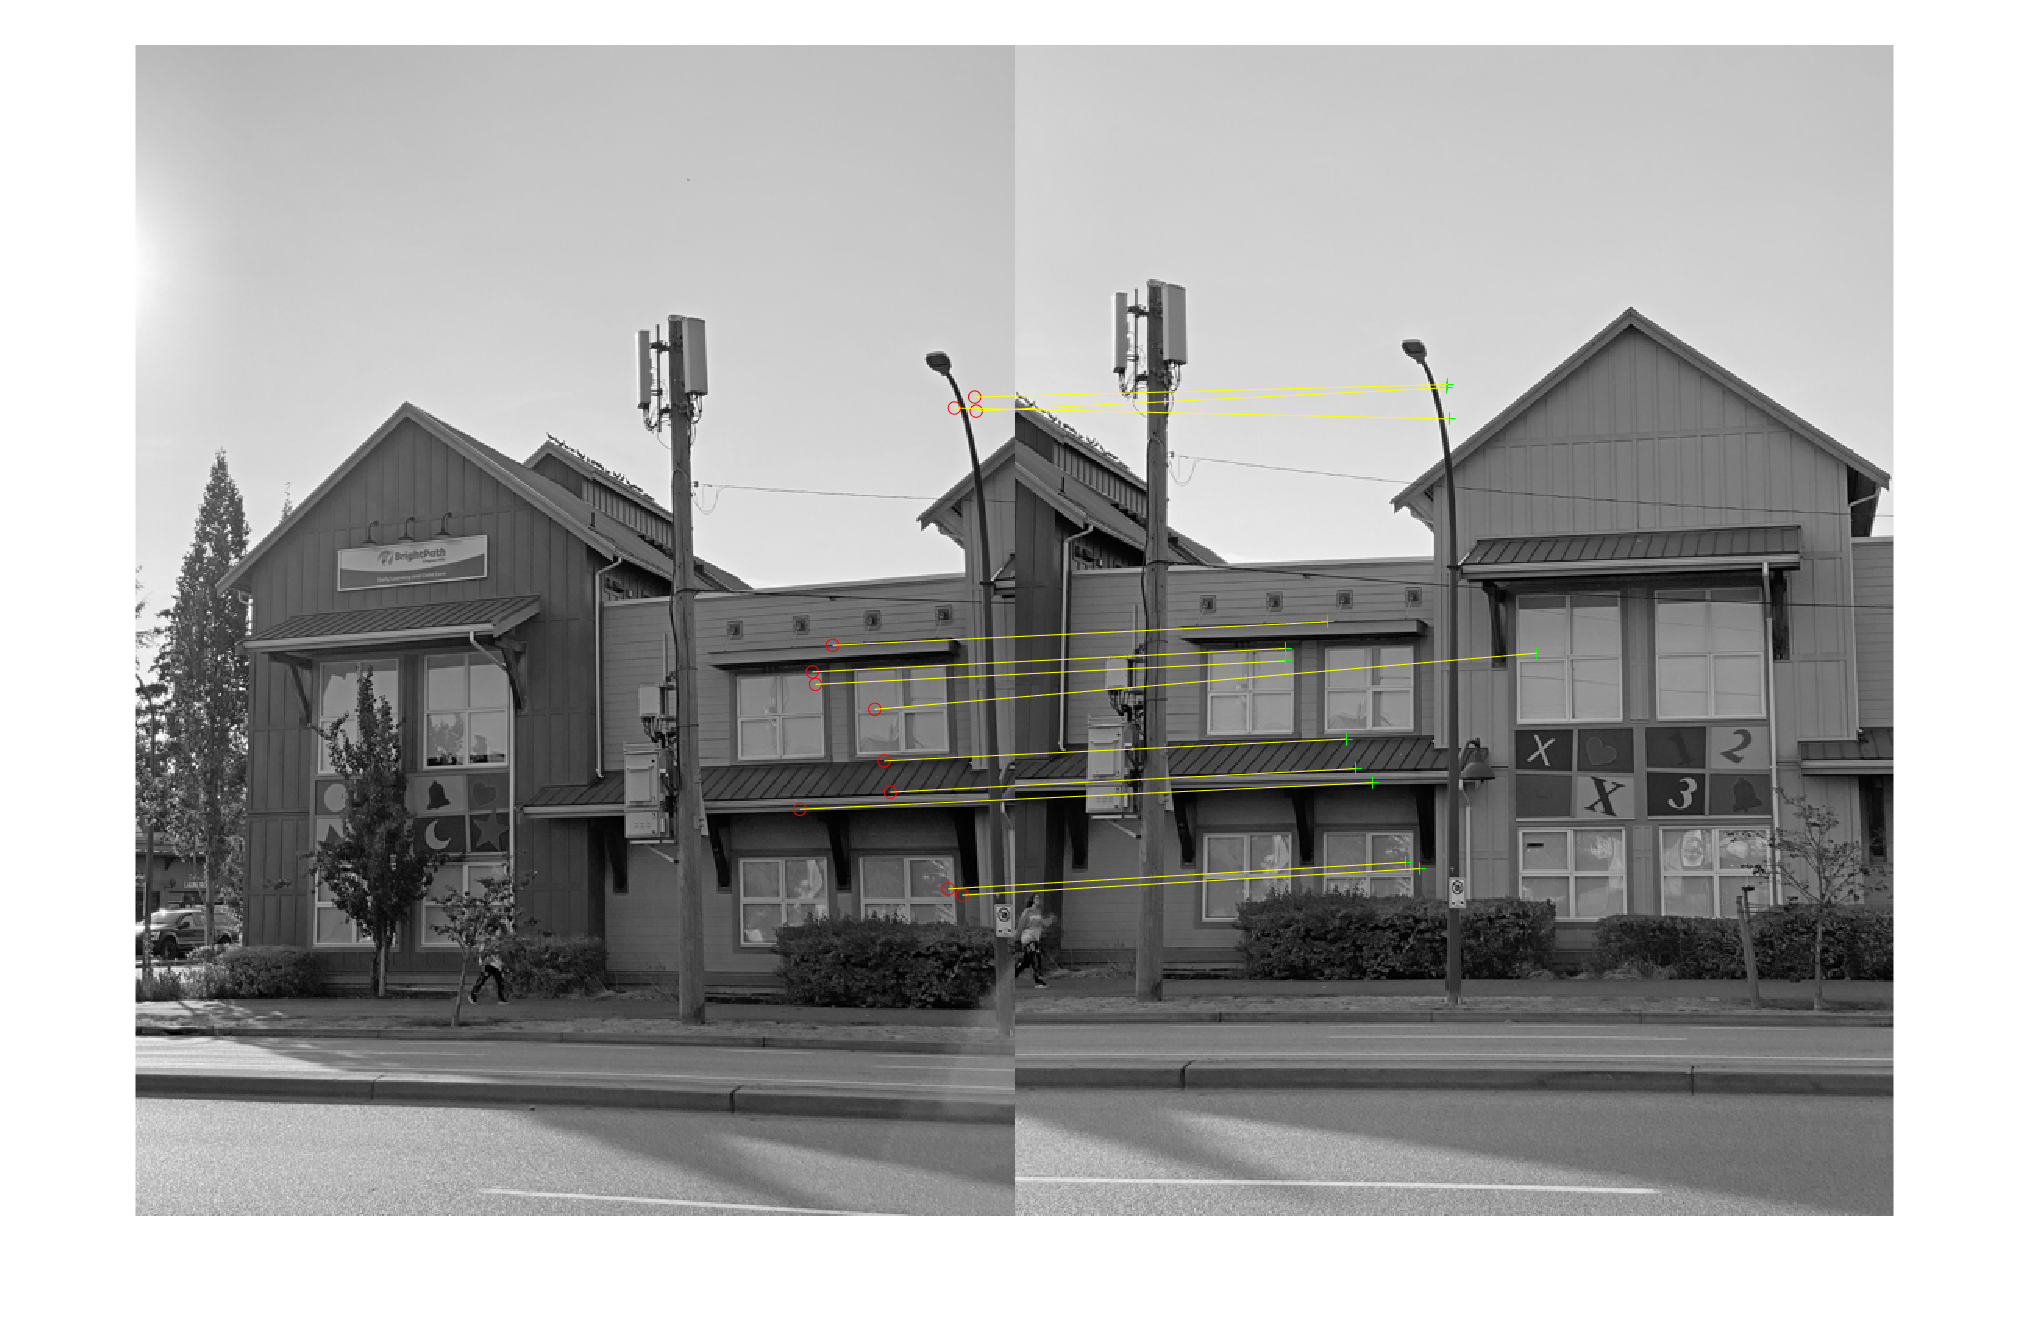
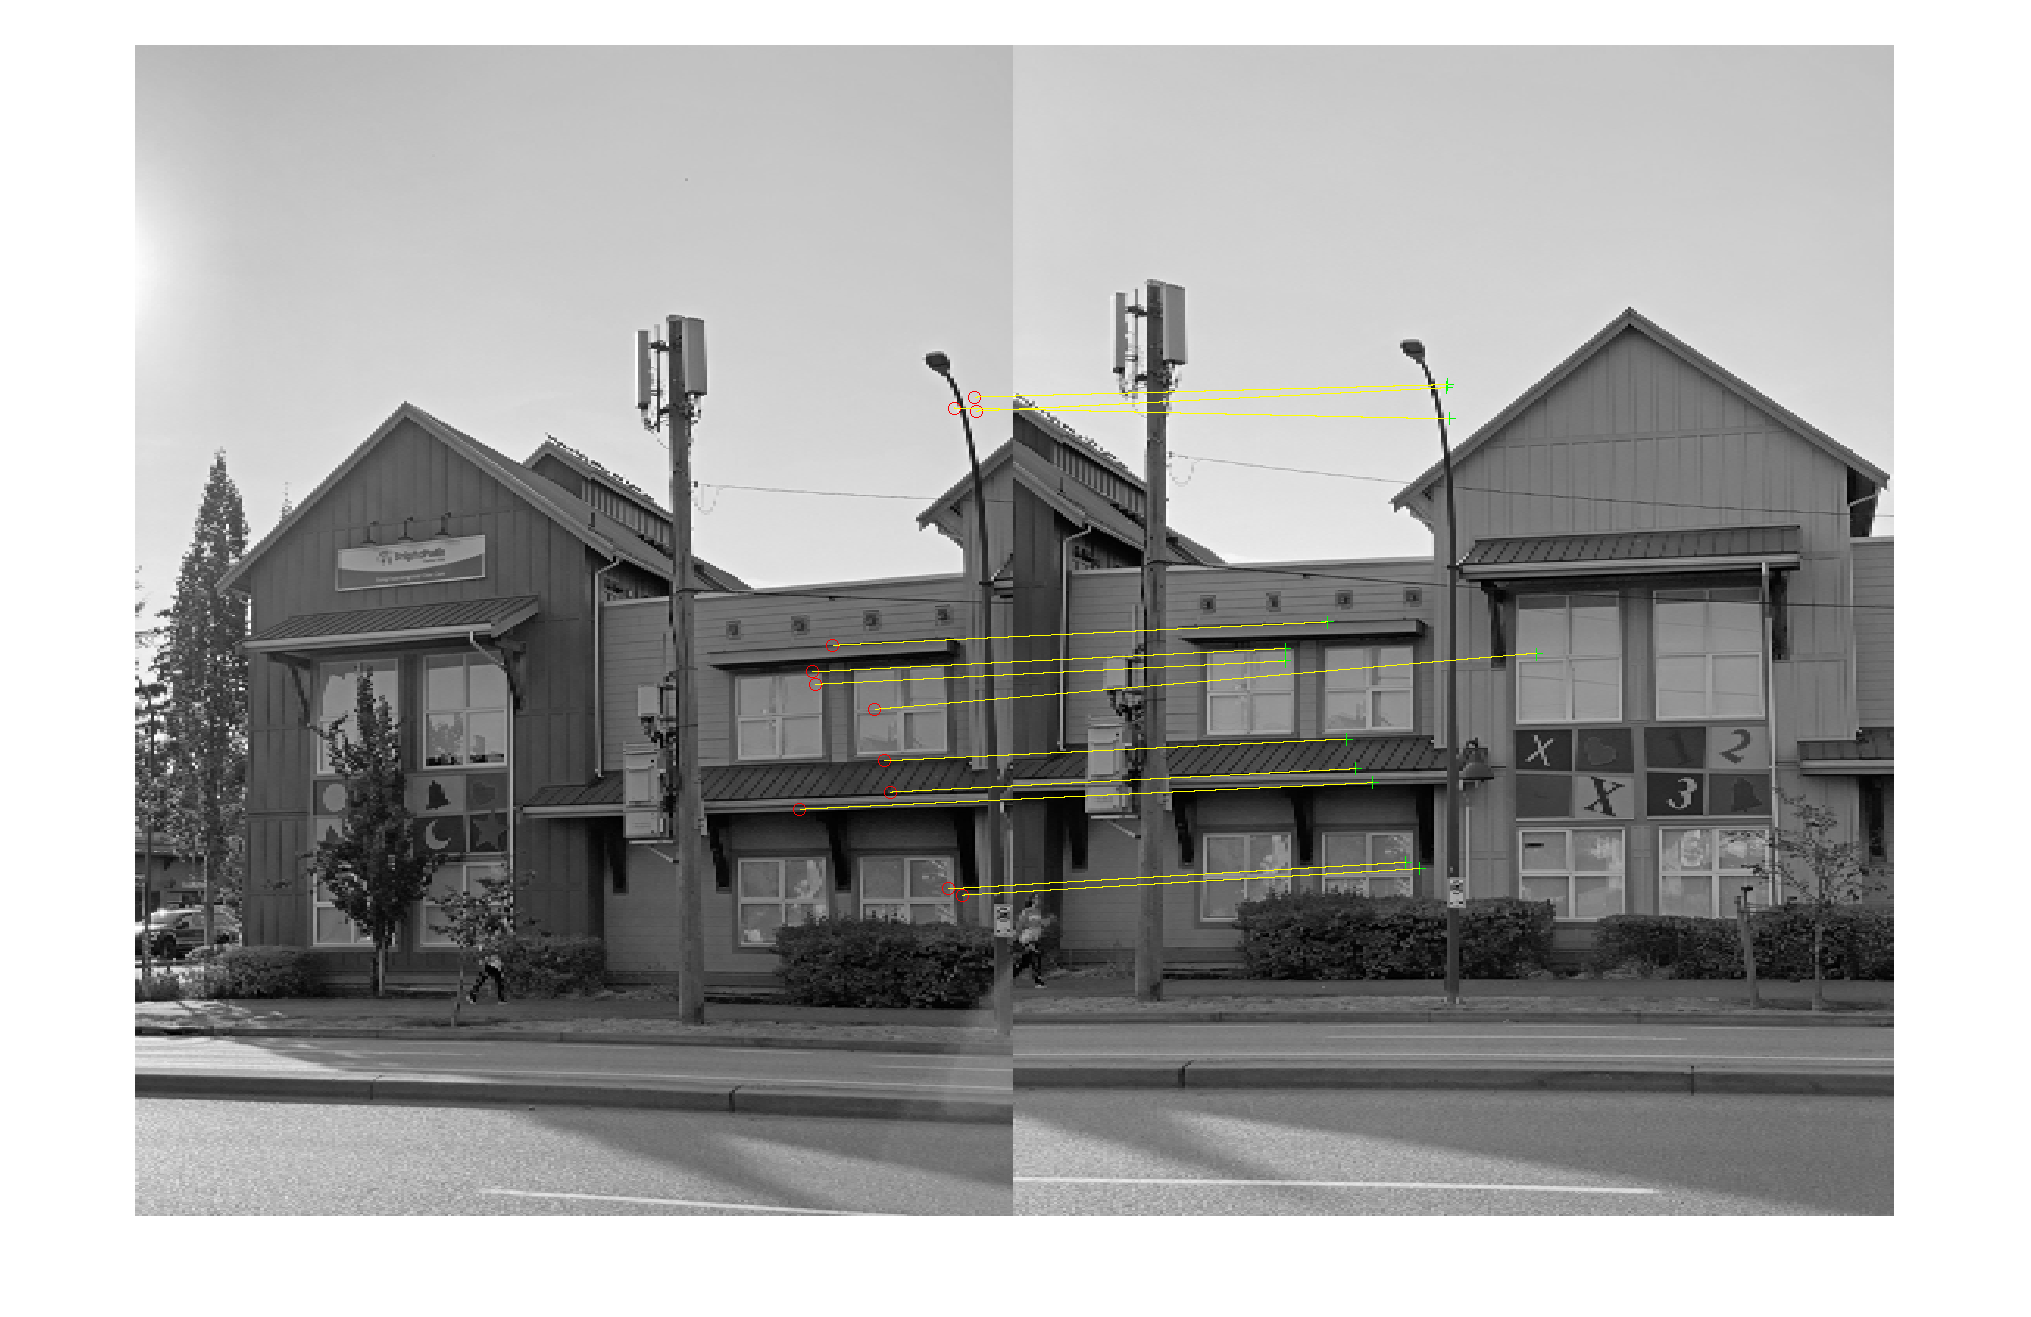
Panorama code seems to work, need to change points to projective

diff --git a/A2/A2.m b/A2/A2.m
@@ -326,25 +326,26 @@ close all
         ax=axes;
         showMatchedFeatures(rgb2gray(allImArr{11}),rgb2gray(allImArr{12}),S4matchedPoints1,S4matchedPoints2,"montag",Parent=ax);
     %Panorama production
-        %tform work
-        tforms(2) = rigid2d(eye(3));
-        tforms(2).T = tformsS1R.T*tforms(1).T;
-        %Apply left images iverse to the right
-        Tinv = invert(tforms(2));
-        tforms(1).T=Tinv.T*tforms(1).T;
-        tforms(2).T=Tinv.T*tforms(2).T;
         %define blender 
         blender = vision.AlphaBlender('Operation', 'Binary mask', 'MaskSource', 'Input port');  
-        %Compute averae limit for each transform
+        %Compute limit for each transform
         imageSize = size(S1_im2);
         [xlim, ylim] = outputLimits(tformsS1R, [1 imageSize(2)], [1 imageSize(1)]);
+        xmin = min([1; xlim(:)]);
+        ymin = min([1; ylim(:)]);
+        xmax = max([imageSize(2); xlim(:)]);
+        ymax = max([imageSize(1); ylim(:)]);
+        xbounds = [xmin xmax];
+        ybounds = [ymin ymax];
         %initialize empty panorama
-        width = round(xlim(2)-xlim(1));
-        height = round(ylim(2)-ylim(1));
+        width = round(xlim(2)-xlim(1))*2;
+        height = round(ylim(2)-ylim(1))*2;
         panorama = zeros([height width 3], 'like', S1_im2);
-        panoramaView = imref2d([height width], xlim, ylim);
+        panoramaView = imref2d([height width], xbounds, ybounds);
+        %Initialize a tforms list and add the corresponding values
+        tforms(2) = rigid2d(eye(3));
+        tforms(2) = tformsS1R;
         %Transform im2 into the panorama
-        
         warped = imwarp(S1_im2, tforms(1), 'OutputView', panoramaView);
         %Create a binary mask
         mask = imwarp(true(size(S1_im2, 1), size(S1_im2, 2)), tforms(1), 'OutputView', panoramaView);
